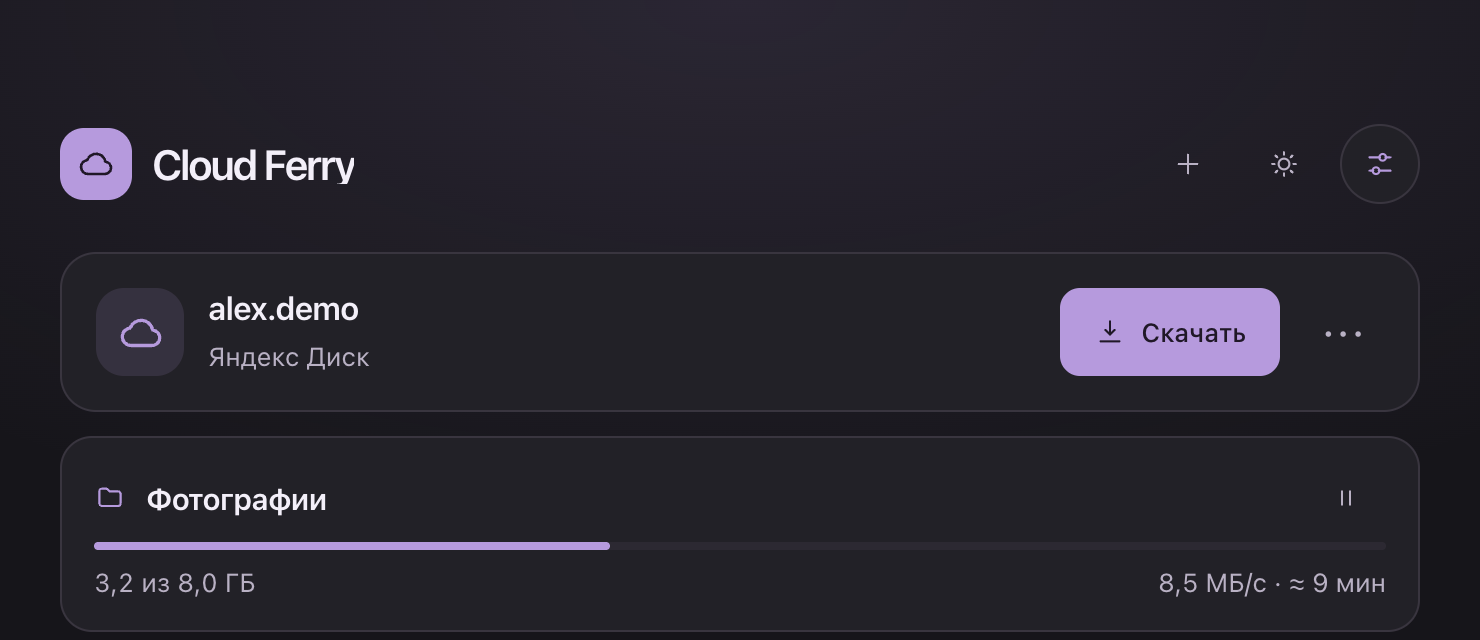
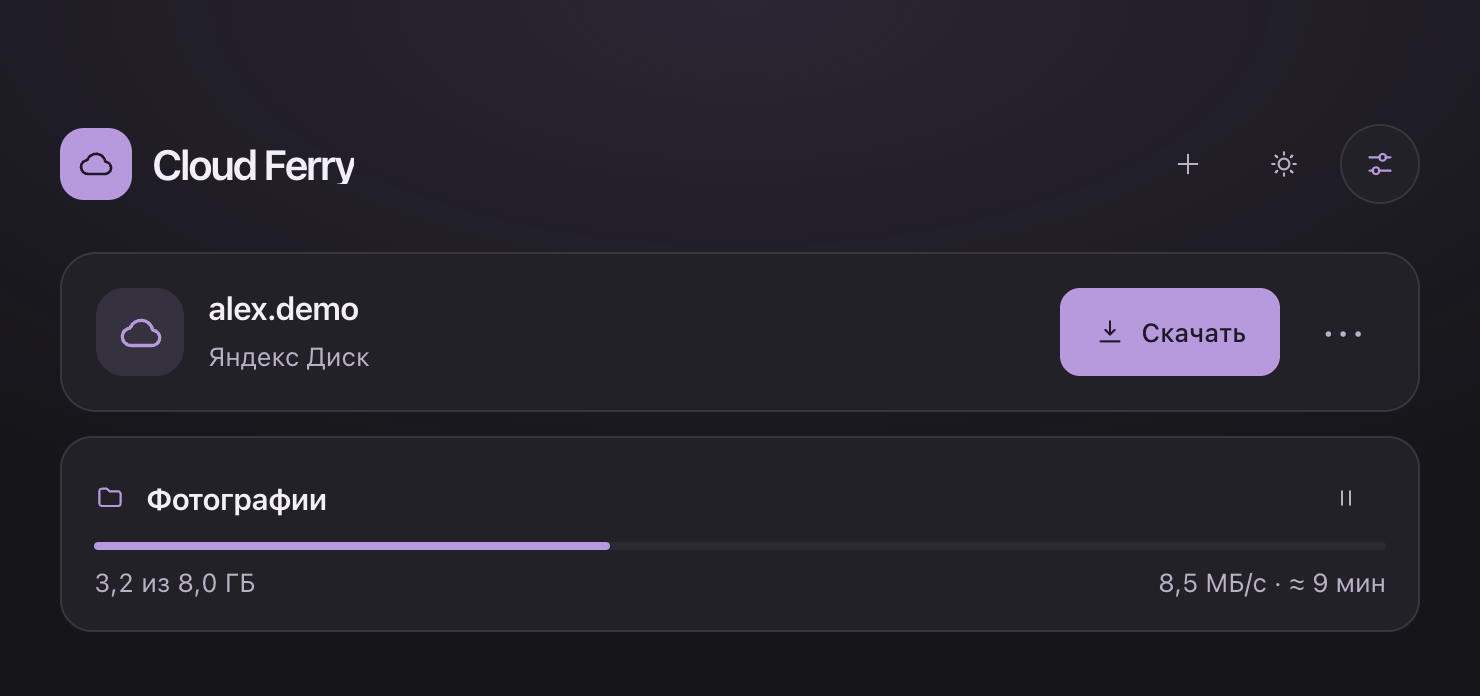
Fix USER-GUIDE claims and build preview from theme.js
Align the guide with multi-account and selection behavior, inline the
real product theme.js in preview builds, and refresh screenshots.

diff --git a/preview.html b/preview.html
@@ -12,21 +12,29 @@
 (function () {
   var params = new URLSearchParams(location.search);
   var forced = params.get('theme');
+  if (forced === 'light' || forced === 'dark') {
+    try { localStorage.setItem('cloudferry-theme', forced); } catch (e) { /* ignore */ }
+  }
+  if (params.get('shot') || params.has('freeze')) {
+    document.documentElement.setAttribute('data-shot', params.get('shot') || 'freeze');
+  }
+})();
+</script>
+<script>
+/* Тема до первого кадра. Отдельный файл, а не inline-скрипт: сервер отдаёт
+   CSP script-src 'self', поэтому inline-скрипты в <head> браузер блокирует.
+   Подключён в <head> до style.css, поэтому первый вычисленный кадр уже в
+   выбранной теме; выбор пользователя важнее системной настройки. */
+(function () {
   var saved = null;
-  try { saved = localStorage.getItem('cloudferry-theme'); } catch (e) { /* ignore */ }
-  var theme = (forced === 'light' || forced === 'dark')
-    ? forced
-    : (saved === 'light' || saved === 'dark'
-      ? saved
-      : ((window.matchMedia && window.matchMedia('(prefers-color-scheme: dark)').matches) ? 'dark' : 'light'));
+  try { saved = localStorage.getItem('cloudferry-theme'); } catch (e) { /* хранилище недоступно */ }
+  var theme = saved === 'light' || saved === 'dark'
+    ? saved
+    : ((window.matchMedia && window.matchMedia('(prefers-color-scheme: dark)').matches) ? 'dark' : 'light');
   document.documentElement.setAttribute('data-theme', theme);
   document.documentElement.style.colorScheme = theme;
   var meta = document.querySelector('meta[name="theme-color"]');
   if (meta) meta.setAttribute('content', theme === 'dark' ? '#16151a' : '#f5f4f8');
-  if (params.get('shot') || params.has('freeze')) {
-    document.documentElement.setAttribute('data-shot', params.get('shot') || 'freeze');
-    try { localStorage.setItem('cloudferry-theme', theme); } catch (e) { /* ignore */ }
-  }
 })();
 </script>
 <style id="shot-capture-style">

diff --git a/scripts/build_preview.py b/scripts/build_preview.py
@@ -27,6 +27,22 @@ DEMO_DIALOG = (
     '<button class="btn btn--quiet">Назад</button></form></dialog>'
 )
 
+# Screenshot helpers only: force theme via localStorage before product theme.js,
+# and mark capture mode. Does not fork theme.js itself.
+SHOT_BOOT = """<script>
+(function () {
+  var params = new URLSearchParams(location.search);
+  var forced = params.get('theme');
+  if (forced === 'light' || forced === 'dark') {
+    try { localStorage.setItem('cloudferry-theme', forced); } catch (e) { /* ignore */ }
+  }
+  if (params.get('shot') || params.has('freeze')) {
+    document.documentElement.setAttribute('data-shot', params.get('shot') || 'freeze');
+  }
+})();
+</script>
+"""
+
 SHOT_STYLE = """<style id="shot-capture-style">
   html[data-shot] *, html[data-shot] *::before, html[data-shot] *::after { caret-color: transparent !important; }
   html[data-shot], html[data-shot] *, html[data-shot] *:hover { cursor: none !important; }
@@ -35,29 +51,6 @@ SHOT_STYLE = """<style id="shot-capture-style">
     box-shadow: none !important;
   }
 </style>
-"""
-
-THEME_BOOT = """<script>
-(function () {
-  var params = new URLSearchParams(location.search);
-  var forced = params.get('theme');
-  var saved = null;
-  try { saved = localStorage.getItem('cloudferry-theme'); } catch (e) { /* ignore */ }
-  var theme = (forced === 'light' || forced === 'dark')
-    ? forced
-    : (saved === 'light' || saved === 'dark'
-      ? saved
-      : ((window.matchMedia && window.matchMedia('(prefers-color-scheme: dark)').matches) ? 'dark' : 'light'));
-  document.documentElement.setAttribute('data-theme', theme);
-  document.documentElement.style.colorScheme = theme;
-  var meta = document.querySelector('meta[name="theme-color"]');
-  if (meta) meta.setAttribute('content', theme === 'dark' ? '#16151a' : '#f5f4f8');
-  if (params.get('shot') || params.has('freeze')) {
-    document.documentElement.setAttribute('data-shot', params.get('shot') || 'freeze');
-    try { localStorage.setItem('cloudferry-theme', theme); } catch (e) { /* ignore */ }
-  }
-})();
-</script>
 """
 
 
@@ -72,6 +65,7 @@ def inline_script(source: str) -> str:
 def build() -> str:
     index = read(WEB / "index.html")
     style = read(WEB / "style.css")
+    theme = read(WEB / "theme.js")
     auth = read(WEB / "auth-view.js")
     transfer = read(WEB / "transfer-view.js")
     app = read(WEB / "app.js")
@@ -81,7 +75,7 @@ def build() -> str:
     html = html.replace("<title>Cloud Ferry</title>", "<title>Cloud Ferry · демо</title>", 1)
     html = re.sub(
         r'<script src="/theme\.js"></script>\s*',
-        THEME_BOOT + SHOT_STYLE,
+        SHOT_BOOT + inline_script(theme) + SHOT_STYLE,
         html,
         count=1,
     )

diff --git a/scripts/screenshots.py b/scripts/screenshots.py
@@ -29,7 +29,7 @@ VIEWPORT = {"width": 1100, "height": 800}
 DPR = 2
 MAX_BYTES = 500 * 1024
 # Compact home frame: shell head + drive row + one job card, with padding.
-HOME_CLIP = {"x": 180, "y": 0, "width": 740, "height": 320}
+HOME_CLIP = {"x": 180, "y": 0, "width": 740, "height": 348}
 
 
 class QuietHandler(http.server.SimpleHTTPRequestHandler):
